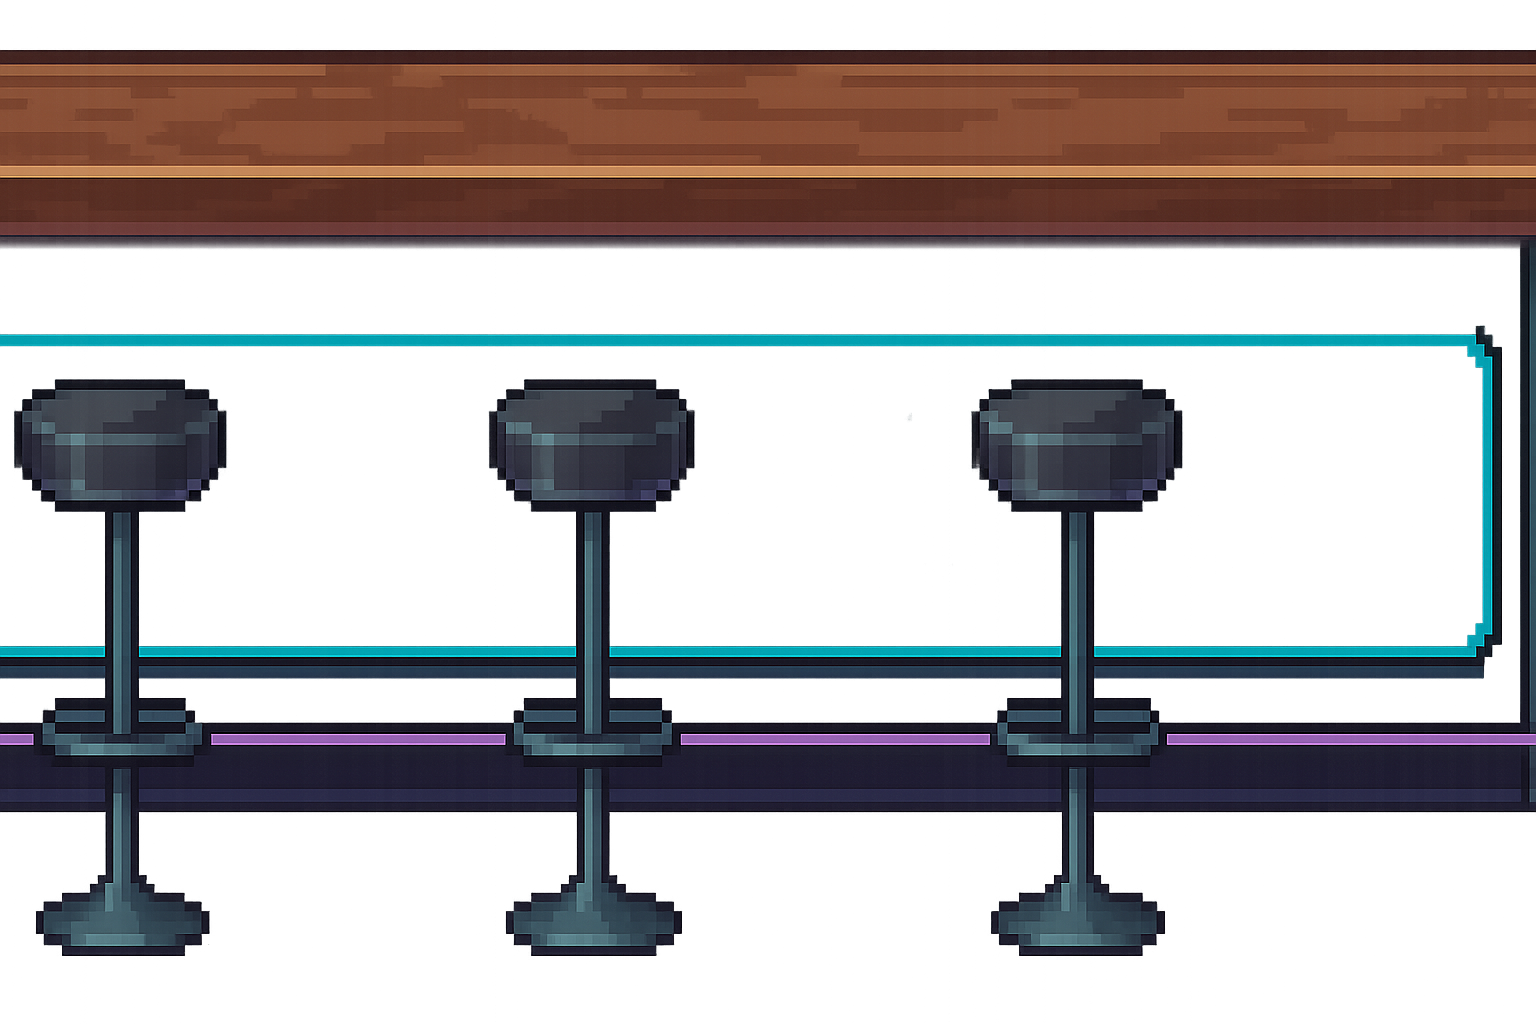
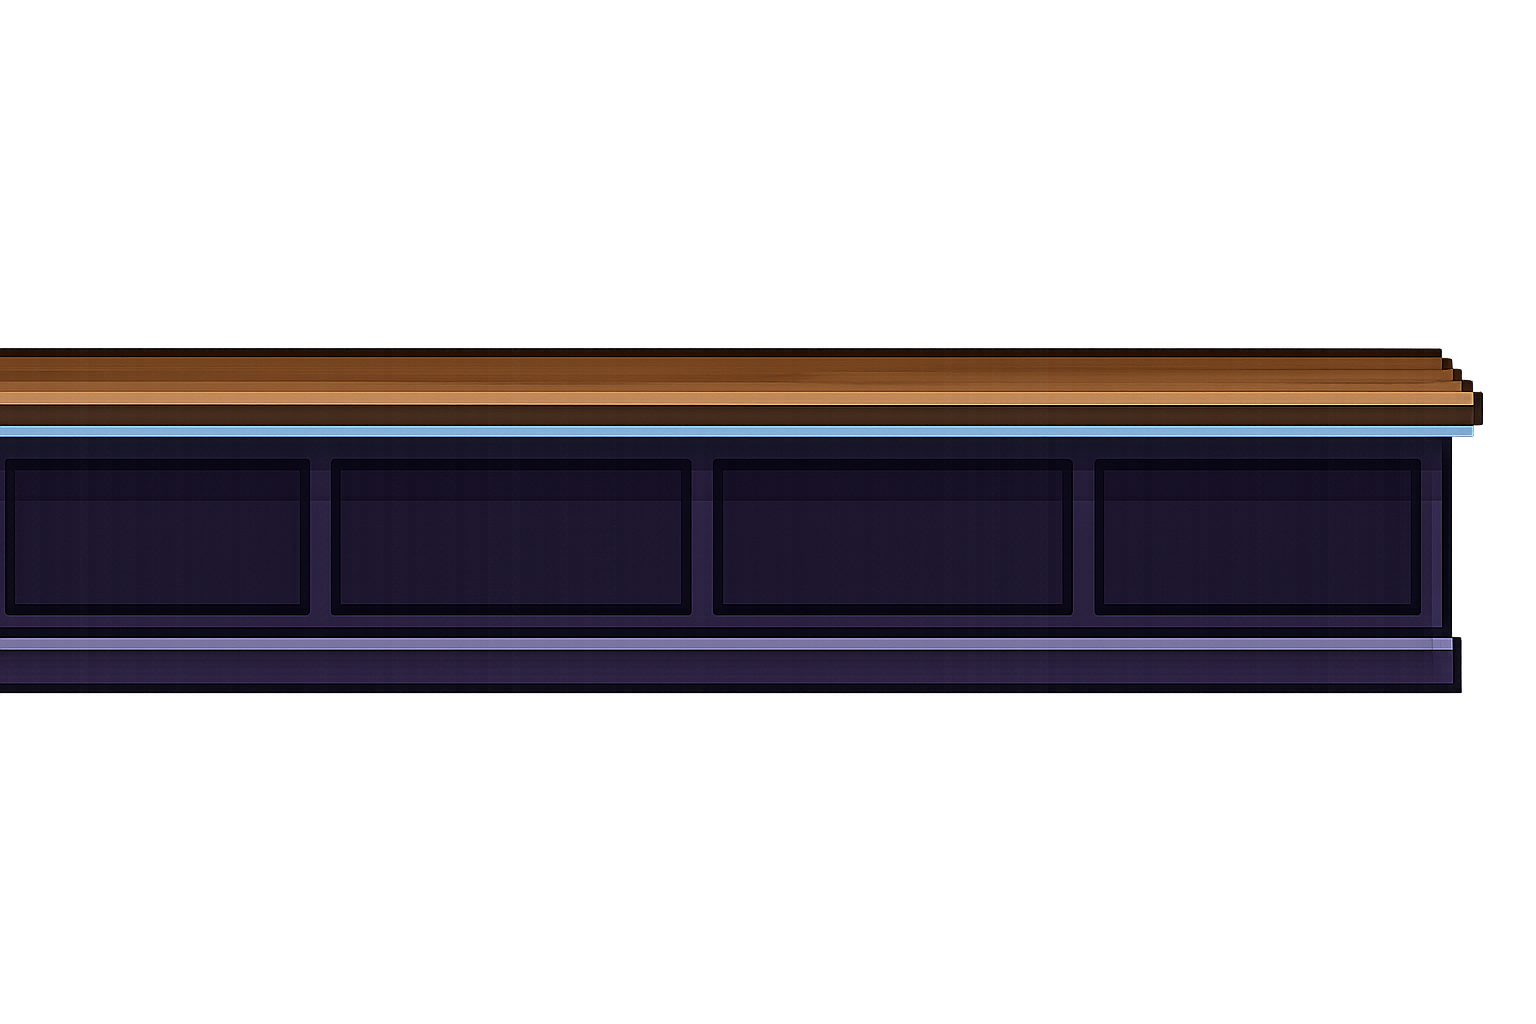
update

diff --git a/src/bar/glass.rs b/src/bar/glass.rs
@@ -58,19 +58,26 @@ pub fn spawn_glass(mut commands: Commands, image_assets: Res<ImageAssets>) {
             Pickable::default(),
         ))
         .observe(
-        |event: Trigger<Pointer<Click>>,
-         mut query: Query<(&mut Glass, &mut Sprite)>,
-         image_assets: Res<ImageAssets>| {
-            if let Ok((mut glass, mut sprite)) = query.get_mut(event.target) {
-                let (next_shape, new_image) = match glass.shape {
-                    GlassShape::Wine => (GlassShape::Whiskey, image_assets.whiskey_glass.clone()),
-                    GlassShape::Whiskey => (GlassShape::Cocktail, image_assets.cocktail_glass.clone()),
-                    GlassShape::Cocktail => (GlassShape::Wine, image_assets.wine_glass.clone()),
-                };
-                info!("Switched glass shape from {:?} to {:?}", glass.shape, next_shape);
-                glass.shape = next_shape;
-                sprite.image = new_image;
-            }
-        },
-    );
+            |event: Trigger<Pointer<Click>>,
+             mut query: Query<(&mut Glass, &mut Sprite)>,
+             image_assets: Res<ImageAssets>| {
+                if let Ok((mut glass, mut sprite)) = query.get_mut(event.target) {
+                    let (next_shape, new_image) = match glass.shape {
+                        GlassShape::Wine => {
+                            (GlassShape::Whiskey, image_assets.whiskey_glass.clone())
+                        }
+                        GlassShape::Whiskey => {
+                            (GlassShape::Cocktail, image_assets.cocktail_glass.clone())
+                        }
+                        GlassShape::Cocktail => (GlassShape::Wine, image_assets.wine_glass.clone()),
+                    };
+                    info!(
+                        "Switched glass shape from {:?} to {:?}",
+                        glass.shape, next_shape
+                    );
+                    glass.shape = next_shape;
+                    sprite.image = new_image;
+                }
+            },
+        );
 }

diff --git a/src/bar/bar_counter.rs b/src/bar/bar_counter.rs
@@ -17,7 +17,7 @@ pub fn spawn_crafting_area(mut commands: Commands, image_assets: Res<ImageAssets
             custom_size: Some(Vec2::new(1536.0, 1024.0)),
             ..default()
         },
-        Transform::from_xyz(-80.0, 50.0, -9.0),
+        Transform::from_xyz(-190.0, 50.0, -9.0),
         OnCraftingScreen,
     ));
     commands.spawn((
@@ -26,7 +26,7 @@ pub fn spawn_crafting_area(mut commands: Commands, image_assets: Res<ImageAssets
             custom_size: Some(Vec2::new(1536.0, 1024.0)),
             ..default()
         },
-        Transform::from_xyz(-150.0, -600.0, -8.0),
+        Transform::from_xyz(-200.0, -400.0, -8.0),
         OnCraftingScreen,
     ));
 }

diff --git a/src/ui/crafting_menu.rs b/src/ui/crafting_menu.rs
@@ -1,7 +1,11 @@
 use crate::{
-    bar::{crafting::OnCraftingScreen, drinks::{CreatedDrink, Drink}, glass::Glass},
+    bar::{
+        crafting::OnCraftingScreen,
+        drinks::{CreatedDrink, Drink},
+        glass::Glass,
+    },
     constants::{BUTTON_BORDER, HOVERED_BUTTON, NORMAL_BUTTON, TEXT_COLOR},
-    engine::{asset_loader::ImageAssets, GameState},
+    engine::{GameState, asset_loader::ImageAssets},
 };
 use bevy::prelude::*;
 
